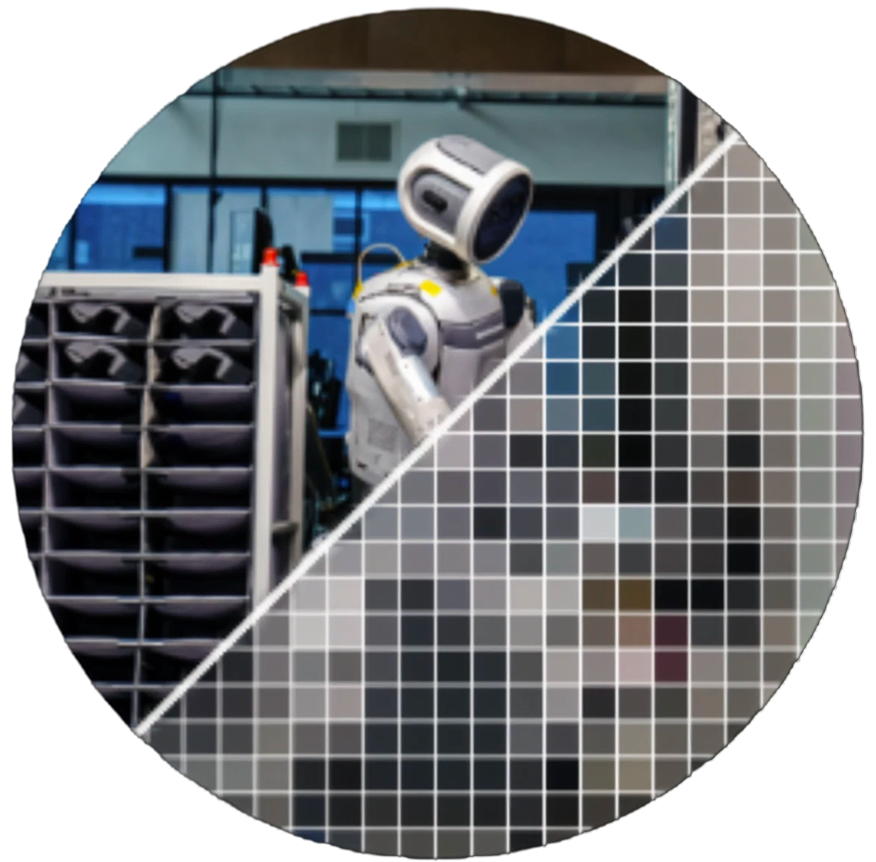
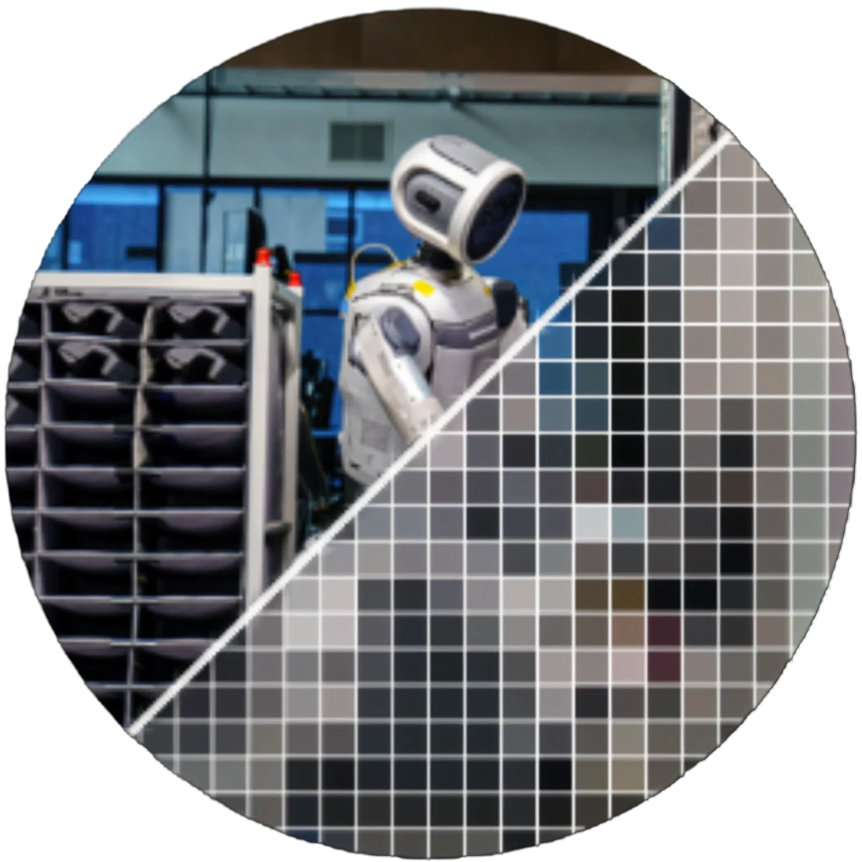
Give the About block its alignment pass: the copy column loses the hero headline's 698px cap and fills its seven columns to the right gutter, so the lede, the three reading rules and the values share one right edge instead of stopping ~119px short while the picture sat flush left; from md the accent

diff --git a/src/app/sections/problem/problem.tsx b/src/app/sections/problem/problem.tsx
@@ -30,11 +30,19 @@ import styles from "./problem.module.css";
 // few pixels against the pointer while the copy holds still.
 //
 // Geometry on the 12-column grid: the picture takes 5 columns (5/12, which
-// is the comp's 42% offset turned into a column), the copy the remaining 7
-// at the hero headline's 698px measure. At the 1496 design width that is
-// the picture across x 40-616 and the copy from x 638, the picture centred
-// on the copy's height. Under the md breakpoint it stacks above the copy at
-// full width.
+// is the comp's 42% offset turned into a column), the copy the remaining 7,
+// filled to the right gutter - the hero headline's 698px measure used to
+// cap it, which left the copy and its rules stopping ~119px short of the
+// gutter while the picture sat flush left (feedback round 3, slide 6). At
+// the 1496 design width that is the picture across x 40-616 and the copy
+// from x 638 to 1456. Paragraph, reading labels and rules share that one
+// left edge: the accent brackets hang in the 22px column gutter to the left
+// of each row, like margin marks (problem.module.css), rather than
+// indenting the label text. The picture is a true square (placeholder.png
+// is 862x862, so the circle sits on its box centre) and top-aligns with the
+// copy - the owner nudges it onto the first cap line with --visual-nudge in
+// the module. Under the md breakpoint it stacks above the copy at full
+// width and the brackets sit in-flow before the labels.
 
 const paragraphs = [
   "Frontier models have consumed everything that was already digital. The physical world - where the work actually happens - was never recorded in a form a machine can use.",
@@ -60,7 +68,7 @@ export function Problem() {
       <RevealScope className="grid gap-12 md:grid-cols-12 md:gap-5.5">
         <PointerDrift>
           <div
-            className={`${styles.visual} sweep-in relative aspect-square md:col-span-5 md:self-center`}
+            className={`${styles.visual} sweep-in relative aspect-square md:col-span-5 md:self-start`}
             style={{ "--beat": 0 }}
           >
             {/* TODO(client): the final intro visual - swap the file in
@@ -75,7 +83,7 @@ export function Problem() {
           </div>
         </PointerDrift>
 
-        <div className="flex flex-col gap-10 md:col-span-7 md:max-w-174.5">
+        <div className="flex flex-col gap-10 md:col-span-7">
           <div
             className={styles.copy}
             data-read-copy
@@ -106,14 +114,18 @@ export function Problem() {
             {readings.map(([term, value], index) => (
               <div
                 key={term}
-                className="border-line sweep-in flex items-center justify-between gap-6 border-t py-4 last:border-b"
+                className={`${styles.reading} border-line sweep-in flex items-center justify-between gap-6 border-t py-4 last:border-b`}
                 style={{ "--beat": 1 + index }}
               >
+                {/* The bracket sits in-flow before the label on the narrow
+                    stack; from md it hangs in the column gutter to the left
+                    of the row (styles.bracket), so the label text starts on
+                    the copy's left edge. */}
                 <dt className="type-body-lg flex items-center gap-4 font-light">
                   <MeasureBracketIcon
                     width={13.5}
                     height={13.5}
-                    className="text-accent shrink-0"
+                    className={`${styles.bracket} text-accent shrink-0`}
                   />
                   {term}
                 </dt>

diff --git a/src/app/sections/problem/problem.module.css b/src/app/sections/problem/problem.module.css
@@ -2,9 +2,9 @@
  * The intro spread: the picture on the left, the lede and the three
  * readings on the right. The columns are the 12-col grid's, set in
  * problem.tsx - the picture across 5/12 (the comp's 42% offset turned into
- * a column), the copy across the remaining 7 at the hero headline's 698px
- * measure - so this file only holds what Tailwind cannot: the read calc
- * and the drift transform.
+ * a column), the copy across the remaining 7, filled to the right gutter -
+ * so this file only holds what Tailwind cannot: the read calc, the drift
+ * transform, the picture's optical nudge and the hanging brackets.
  *
  * --read-progress arrives from read-progress.client.tsx as 0..1 and rests
  * at 1, so with no script - or with reduced motion, where the island never
@@ -19,6 +19,56 @@
     calc(var(--drift-x, 0px) * 0.6),
     calc(var(--drift-y, 0px) * 0.6)
   );
+}
+
+/*
+ * From md the picture top-aligns with the copy (self-start in problem.tsx)
+ * instead of floating on the copy's centre, and --visual-nudge is the
+ * optical offset that puts the circle's top on the copy's first cap line
+ * and its bottom near the last rule. The owner sets it after measuring in
+ * the browser at 1496 / 1920 - the type's line box sits above its cap
+ * height by an amount that depends on the face, so it is not a value to
+ * guess. Positive moves the picture down.
+ */
+@media (min-width: 48rem) {
+  .visual {
+    --visual-nudge: 0px;
+    margin-top: var(--visual-nudge);
+  }
+}
+
+/*
+ * The readings, from md: the row's own rule spans exactly the copy width
+ * and the label text starts on the row's left edge, with the accent bracket
+ * hanging in the 22px column gutter to the left (the grid's md gap in
+ * problem.tsx), like a margin mark - so paragraph, labels and rules share
+ * one left edge. Under md the bracket is a flex item before the label,
+ * which the tsx already lays out.
+ *
+ * The row is also swept in, and a mask clips whatever it paints to the
+ * element's border box, which would take the hanging bracket with it. So
+ * the mask paints past the box here and its image starts a gutter's width
+ * to the left, which is the sweep-in utility's mask-position with that
+ * offset taken off: the bracket is under the mask's settled 42% like the
+ * rest of the row, and the sweep still runs across it left to right. The
+ * override wins on cascade order alone: module styles are unlayered, the
+ * utility sits in Tailwind's utilities layer.
+ */
+@media (min-width: 48rem) {
+  .reading {
+    position: relative;
+    -webkit-mask-clip: no-clip;
+    mask-clip: no-clip;
+    -webkit-mask-position: calc((1 - var(--reveal, 1)) * 100% - 1.375rem) 0;
+    mask-position: calc((1 - var(--reveal, 1)) * 100% - 1.375rem) 0;
+  }
+
+  .bracket {
+    position: absolute;
+    top: 50%;
+    left: -1.375rem;
+    translate: 0 -50%;
+  }
 }
 
 .copy {
